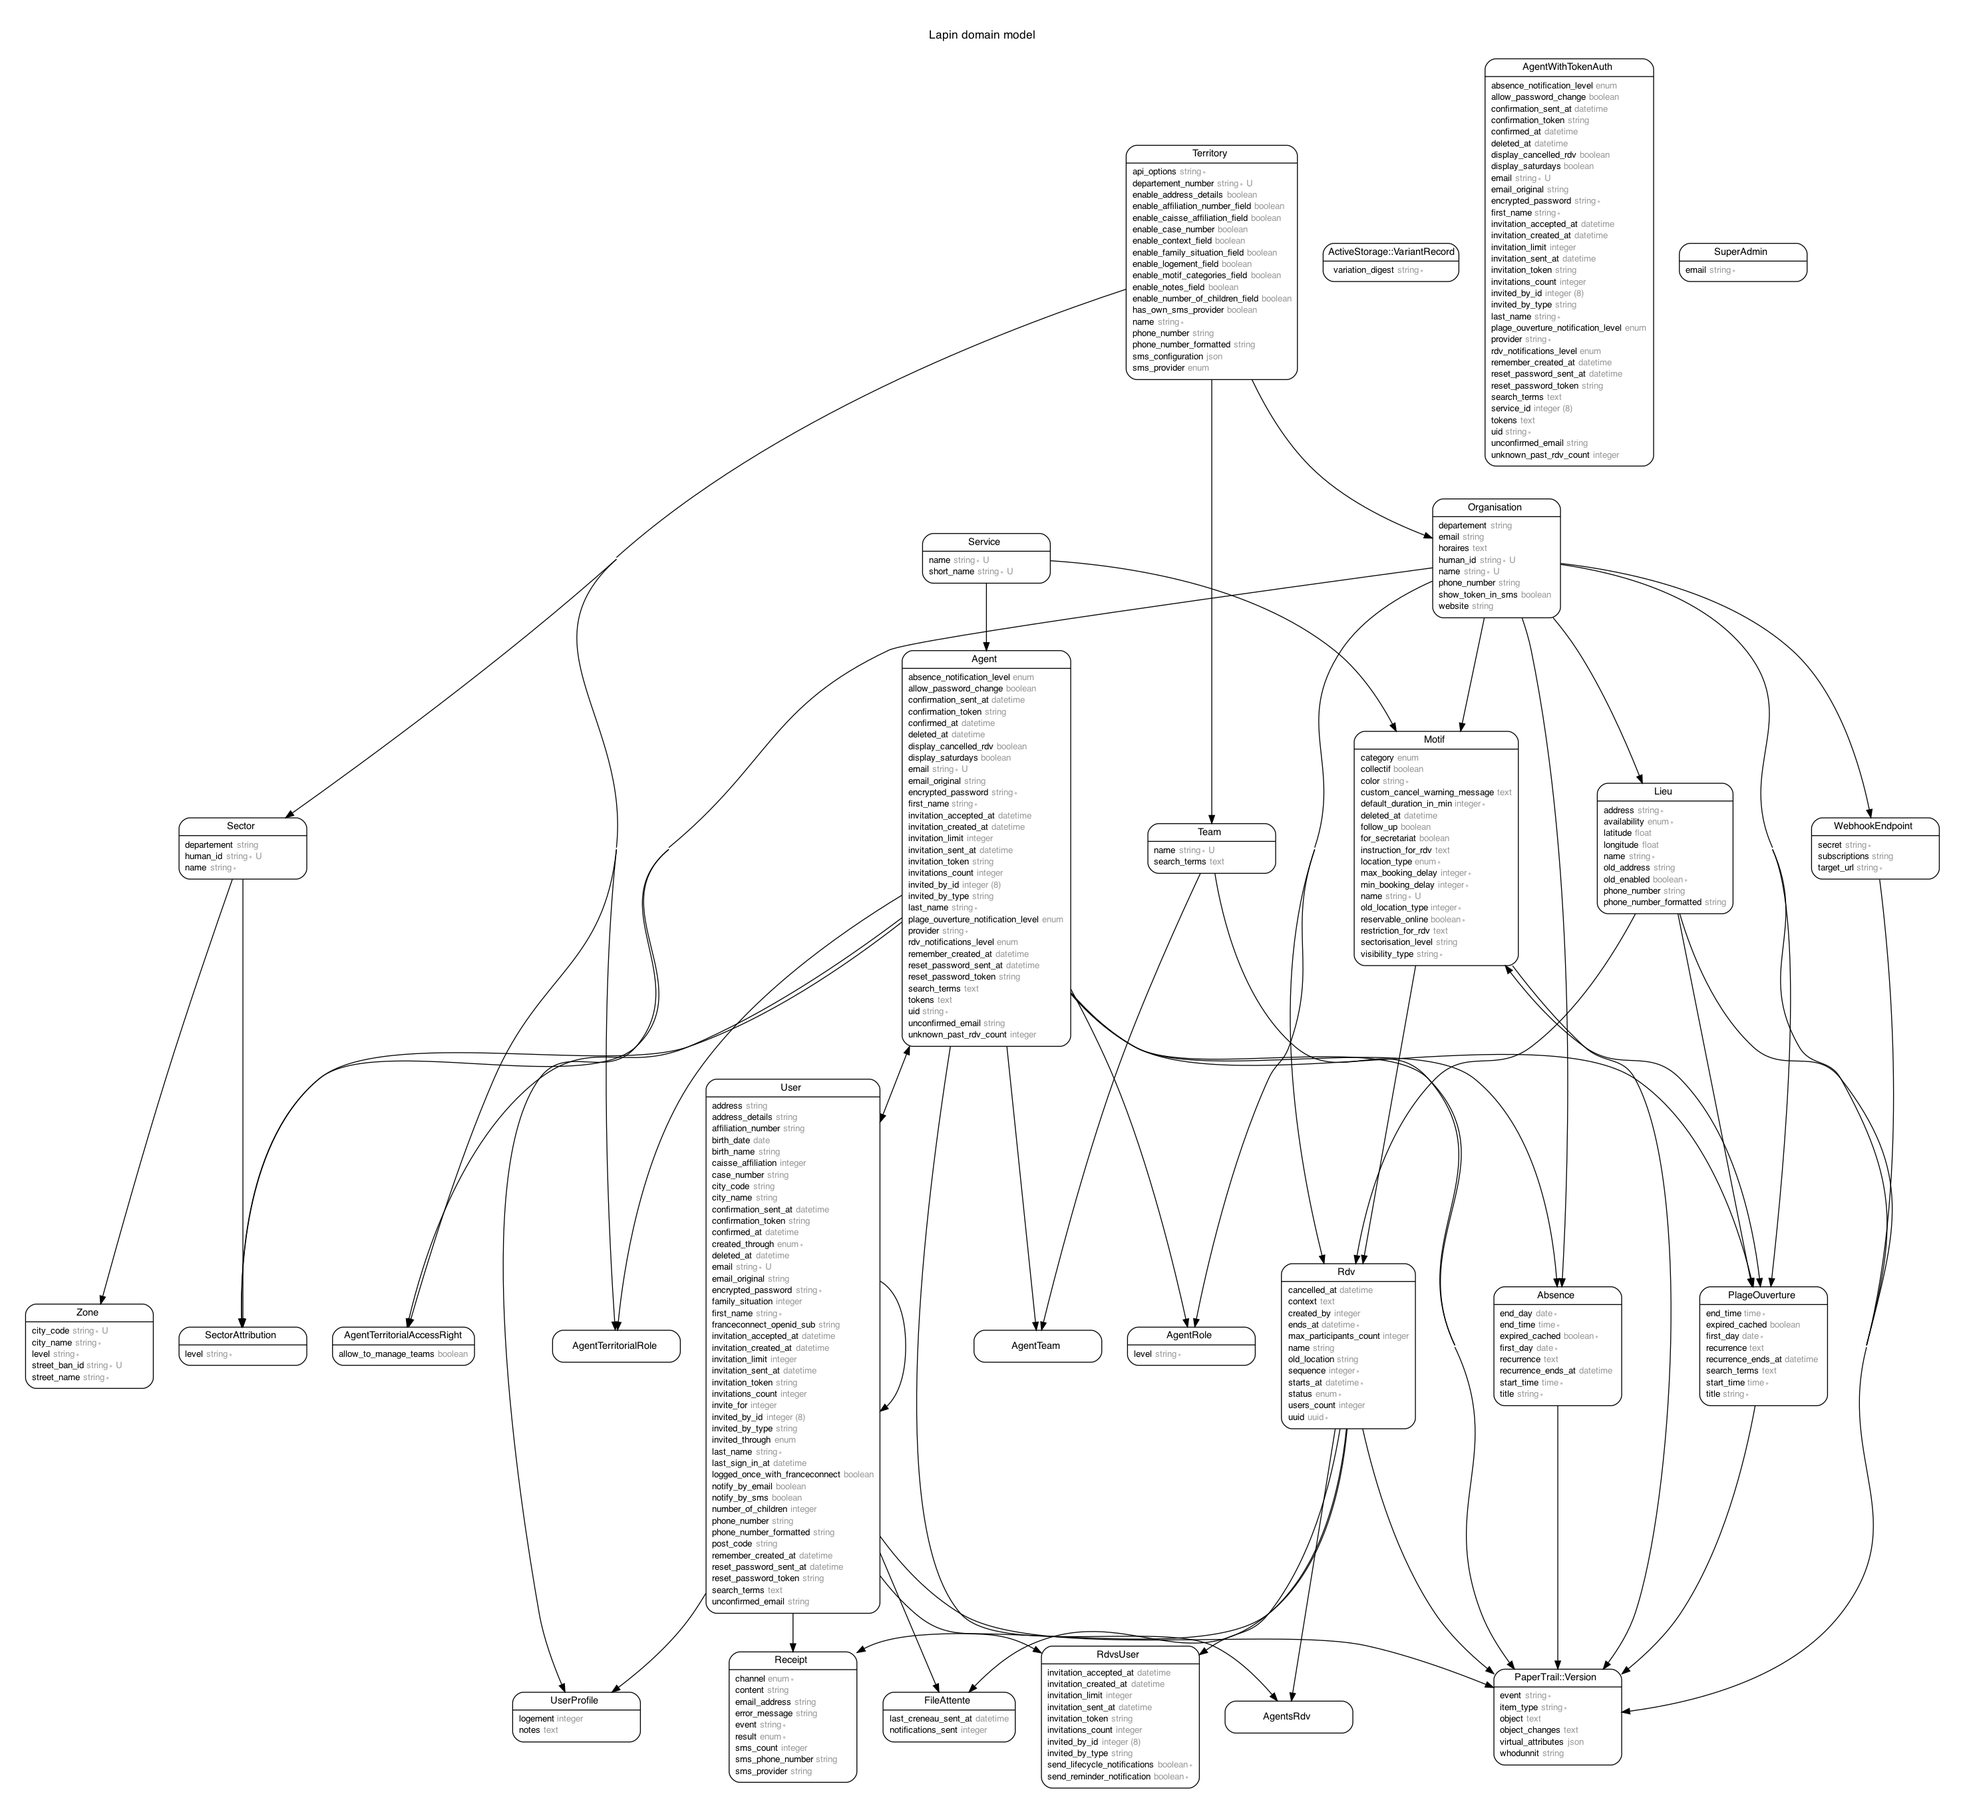
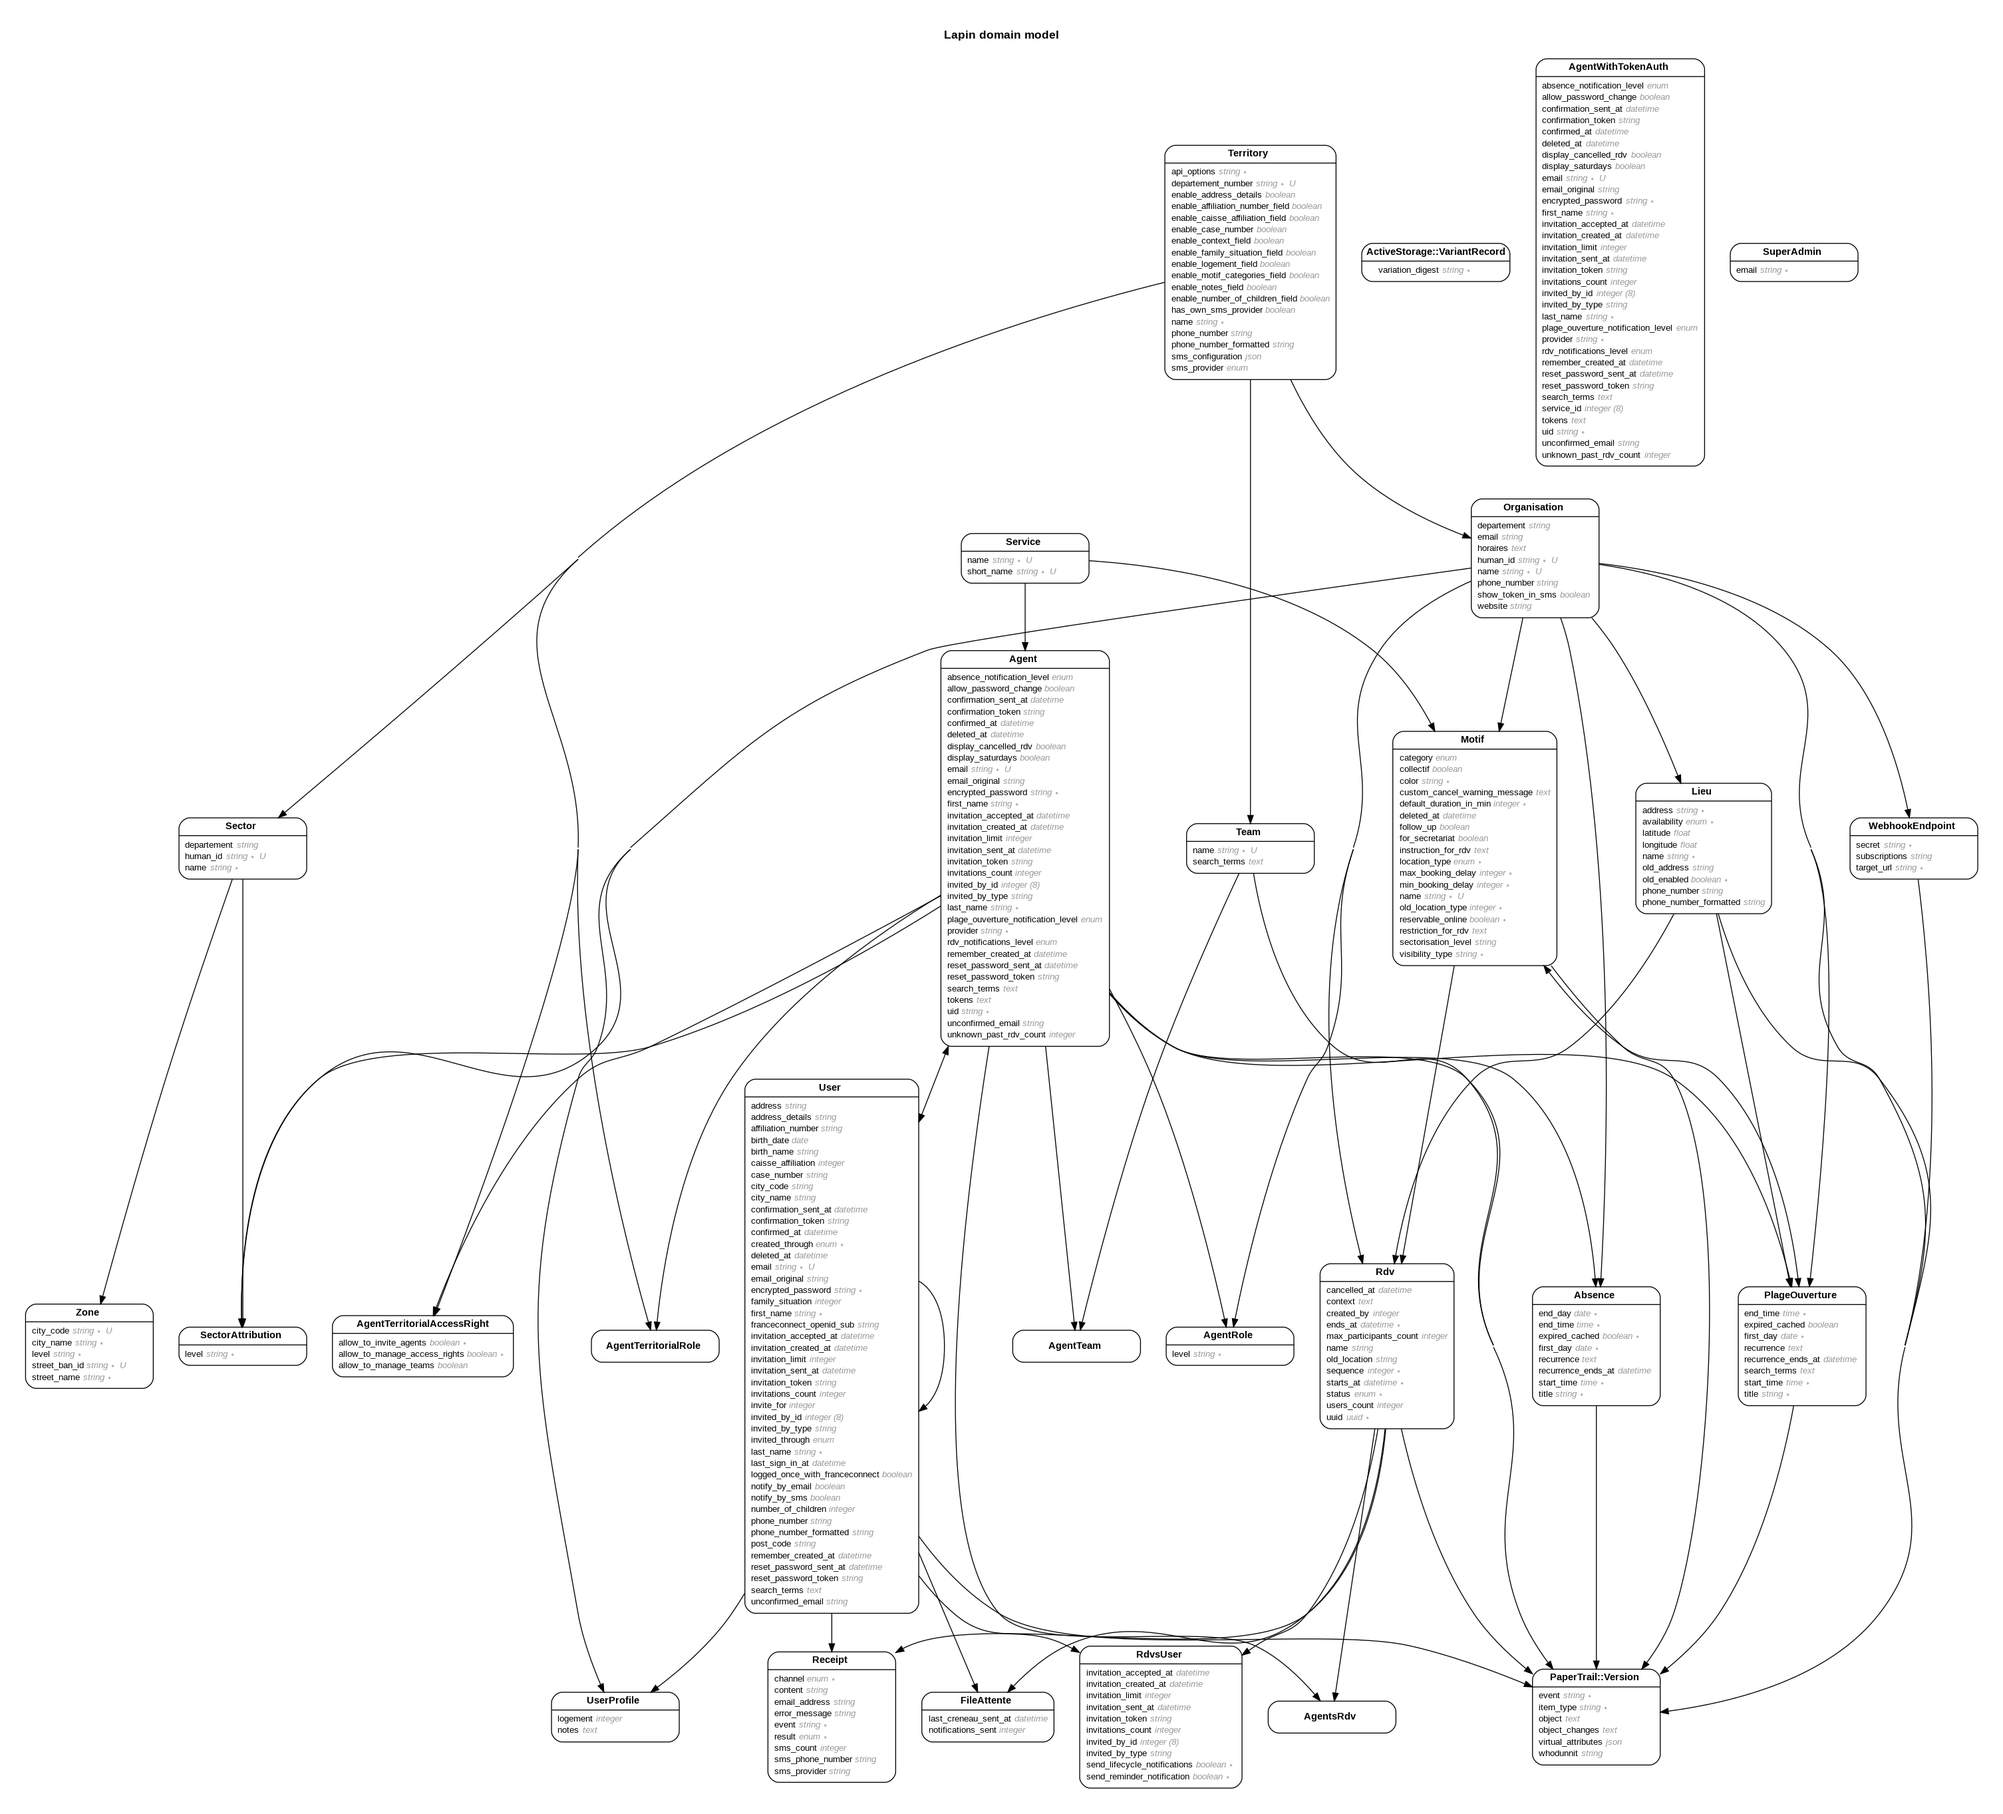
Met à jour chaque agent

diff --git a/db/migrate/20220502201525_add_allow_to_manage_access_rights_to_agent_territorial_access_rights.rb b/db/migrate/20220502201525_add_allow_to_manage_access_rights_to_agent_territorial_access_rights.rb
@@ -6,26 +6,27 @@ class AddAllowToManageAccessRightsToAgentTerritorialAccessRights < ActiveRecord:
     add_column :agent_territorial_access_rights, :allow_to_invite_agents, :boolean, default: false, null: false
 
     # Tous les agents qui ont été créé depuis la dernière migration n'ont pas
-    # été associés à un territoire via la table des droits d'accès
+    # été associés à un territoire via la table des droits d'accès.
     # Soit presque l'ensemble des conseillers numériques
     # plus quelques autres agents créés entre temps.
     #
-    # Ici, on reconstruit ce lien pour les agents qui ne sont pas présent
-    # dans la table `AgentTerritorialAccessRights`
-    Agent.where.not(id: AgentTerritorialAccessRight.all.pluck(:agent_id)).each do |agent|
-      agent.organisations.flat_map(&:territory).each do |territory|
-        AgentTerritorialAccessRight.create!(agent: agent, territory: territory)
+    # Pour n'oublier personne, nous faisons le tour de tous
+    # les agents de chaque organisations. Il y aura
+    # sans doute des doublons, d'où l'utilisation du
+    # `fin_or_create_by!`
+    Organisation.all.each do |organisation|
+      territory = organisation.territory
+      organisation.agents.all.each do |agent|
+        AgentTerritorialAccessRight.find_or_create_by!(agent: agent, territory: territory)
       end
     end
 
     # Nous avons besoin de retrouver l'agent et le territoire
     # pour lequel donner les droits d'accès.
-    # Difficile de passer par un `update_all`
     #
     # Les admin d'organisation ont automatiquement
     # le droit d'inviter des agents.
-    # Ils seront limité aux organisations auxquelles
-    # ils accèdent
+    # Ils seront limités a leurs organisations.
     AgentRole.where(level: "admin").each do |agent_role|
       AgentTerritorialAccessRight.where(
         agent: agent_role.agent,
@@ -35,7 +36,6 @@ class AddAllowToManageAccessRightsToAgentTerritorialAccessRights < ActiveRecord:
 
     # Nous avons besoin de retrouver l'agent et le territoire
     # pour lequel donner les droits d'accès.
-    # Difficile de passer par un `update_all`
     #
     # Les admin de territoire ont automatiquement le droit de
     # - gérer les droits d'accès

diff --git a/db/schema.rb b/db/schema.rb
@@ -174,8 +174,8 @@ ActiveRecord::Schema.define(version: 2022_05_23_140836) do
     t.boolean "allow_to_manage_teams", default: false
     t.datetime "created_at", precision: 6, null: false
     t.datetime "updated_at", precision: 6, null: false
-    t.boolean "allow_to_manage_access_rights", default: false
-    t.boolean "allow_to_invite_agents", default: false
+    t.boolean "allow_to_manage_access_rights", default: false, null: false
+    t.boolean "allow_to_invite_agents", default: false, null: false
     t.index ["agent_id"], name: "index_agent_territorial_access_rights_on_agent_id"
     t.index ["territory_id"], name: "index_agent_territorial_access_rights_on_territory_id"
   end
